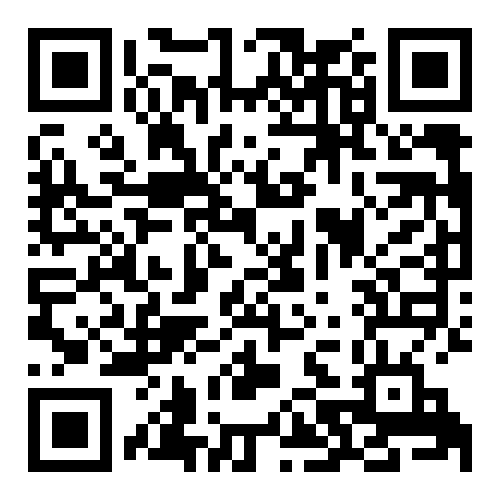
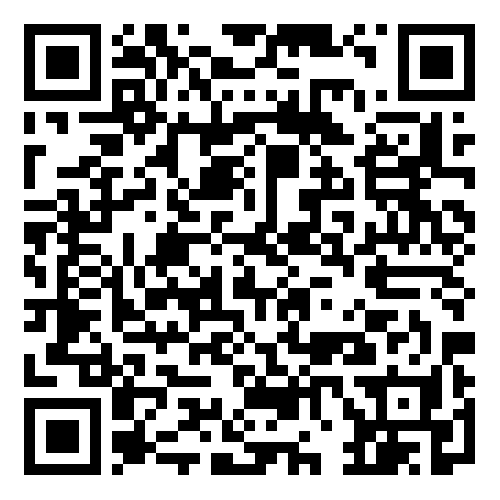
ny qr og link til sharepoint

diff --git a/index.html b/index.html
@@ -18,7 +18,9 @@
         <h1 class="tiny5-regular">TUTORTIDER:</h1>
         <div>
             <h1 class="tiny5-regular">Sharepoint</H1>
-            <a href="https://studkea.sharepoint.com/sites/MMDTutorHelp">
+            <a href="https://erhvervsakademikbenhavn.sharepoint.com/sites/TeamMMDTutorHelp">
+
+
                 <img src="sharepoint.png" alt="qr kode til sharepointsite">
             </a>
 
